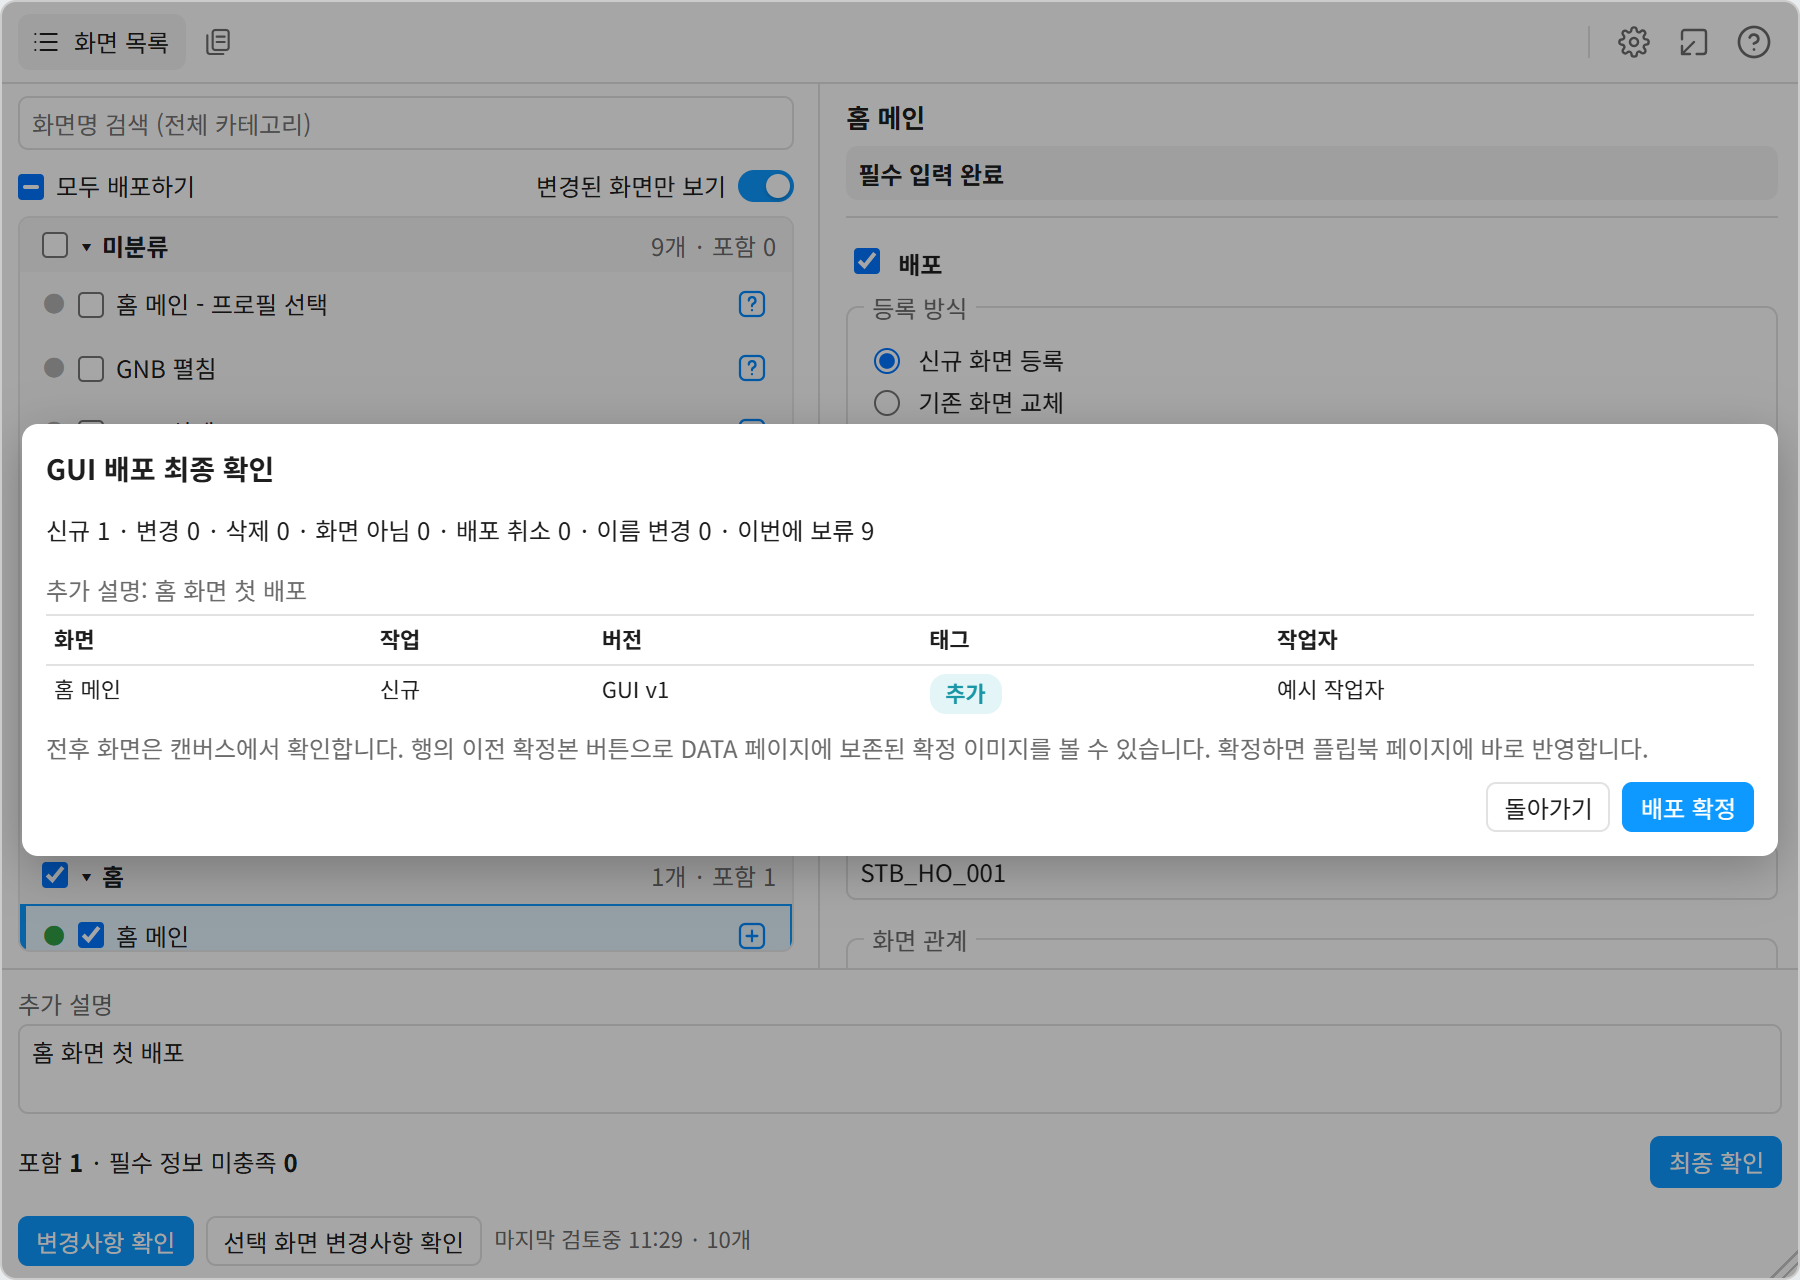
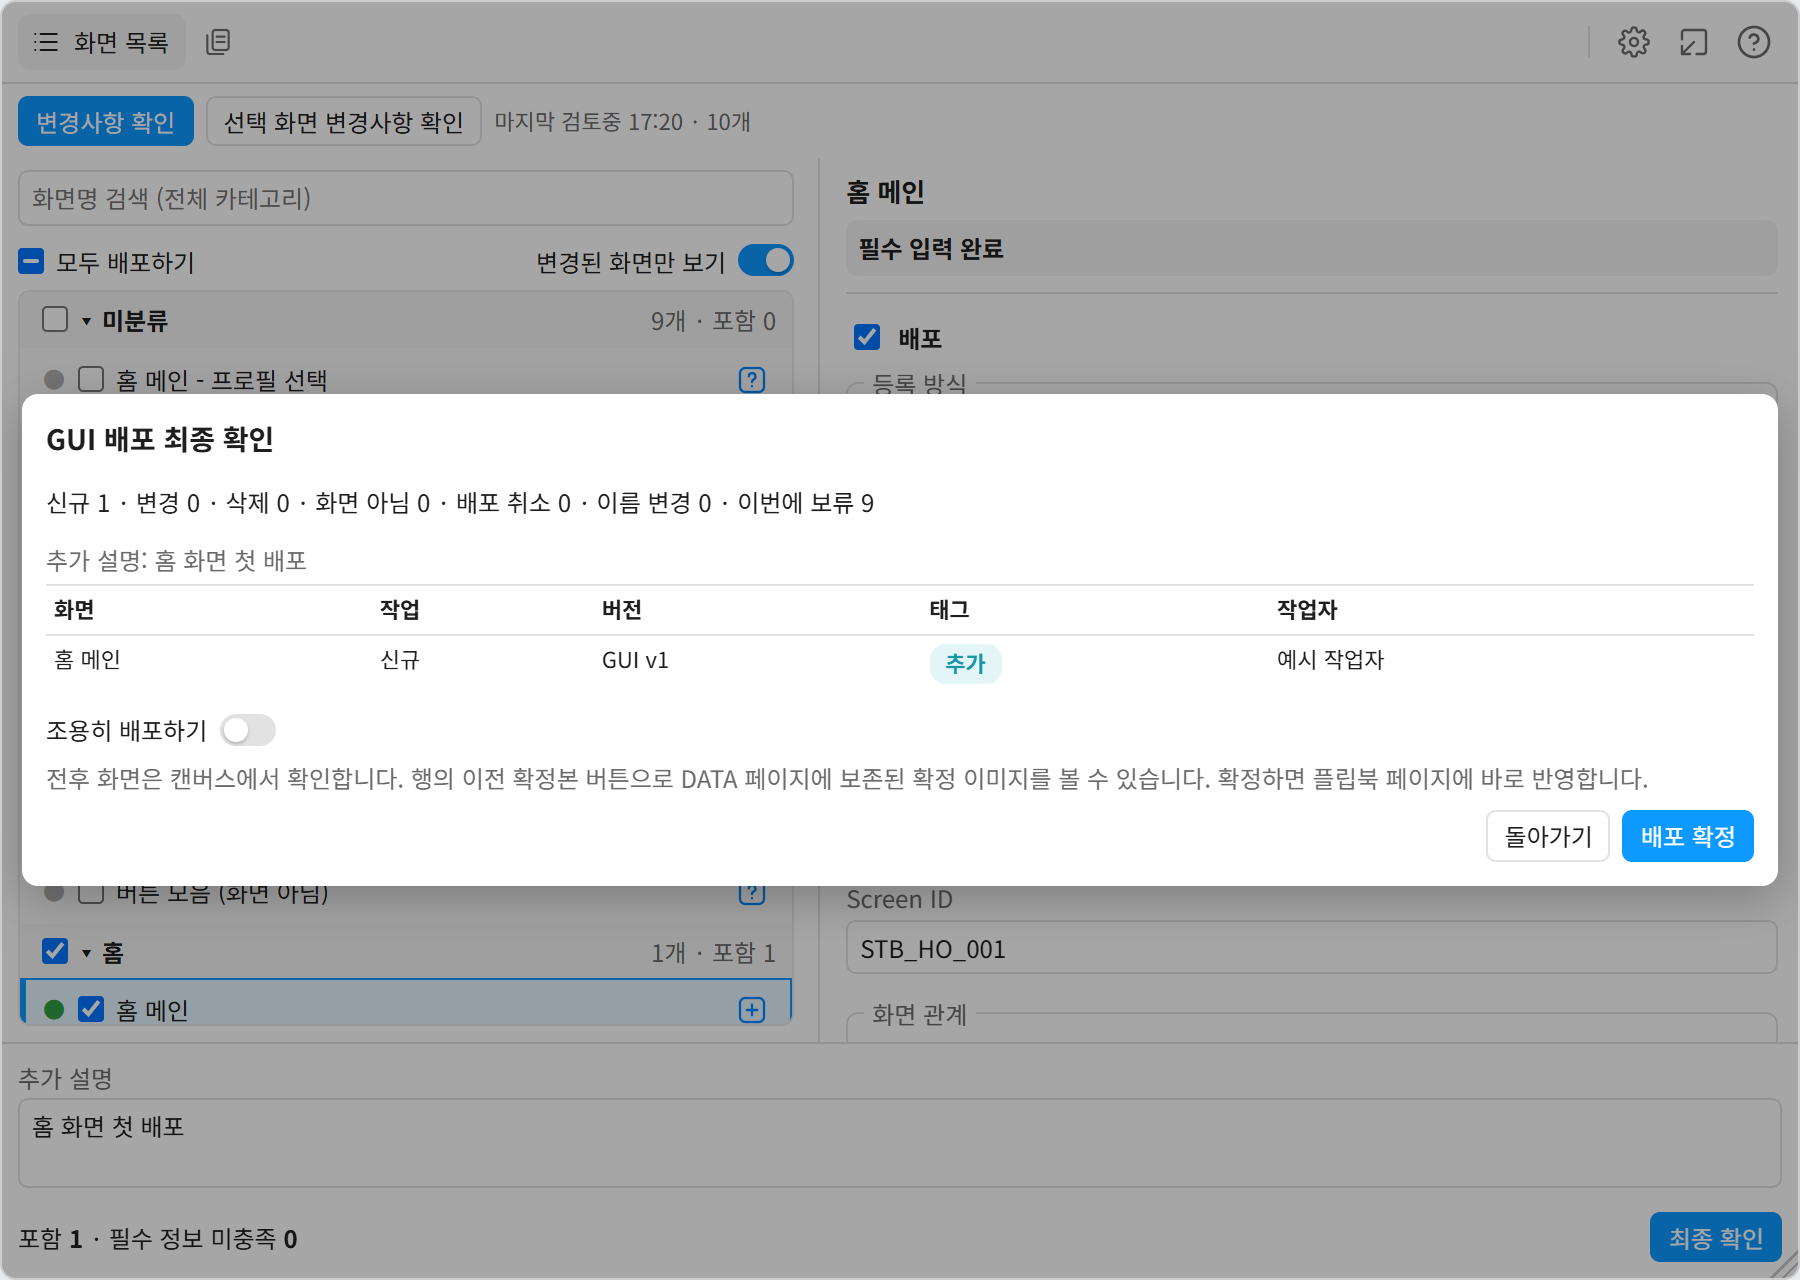
feat: add quiet GUI publishing without flipbook history

diff --git a/release/guide.html b/release/guide.html
@@ -239,7 +239,7 @@ footer { color: var(--muted); font-size: 13px; text-align: center; margin-top: 2
     <li><b>배포 켜기</b>이번에 배포할 화면의 <span class="ui">배포</span>를 켜고 등록 방식을 고릅니다. 새 화면으로 등록, <span class="ui">기존 화면 교체</span>(기존 화면의 새 버전으로 기록), <span class="ui">화면이 아님</span>(배포 뒤 목록에서 제외) 중 하나입니다. 이미 배포한 화면은 <span class="ui">화면 수정</span>·<span class="ui">기존 화면 교체</span>(잘못 신규로 배포한 화면을 기존 화면의 새 버전으로 돌림. 이 화면이 든 플립북·플로우·케이스는 기존 화면으로 옮겨 갑니다)·<span class="ui">화면이 아님</span>·<span class="ui">배포 취소</span>(사용 안 함으로 바꾸고 프레임은 다시 신규로 나옴) 중에서 고릅니다.</li>
     <li><b>화면 정보 입력</b>카테고리, 화면 이름, Screen ID, <span class="ui">독립 화면</span>·<span class="ui">케이스</span> 관계를 정합니다. 카테고리를 고르면 Screen ID가 캔버스 순서대로 자동 입력되고 직접 고칠 수도 있습니다. 케이스는 기본 화면을 고르면 다음 번호가 들어갑니다. 기본 화면 목록에는 아직 배포하지 않았어도 이번에 배포를 켠 독립 화면이 함께 나옵니다. 기본 화면과 케이스를 한 번에 배포할 수 있으며, 기본 화면에 충돌이 생기면 케이스도 함께 보류됩니다. 교체할 화면이나 기본 화면을 고르는 목록은 펼치면 Screen ID나 이름으로 검색할 수 있습니다. 검색 칸에서 <kbd>Enter</kbd>는 첫 결과를 고르고, <kbd>↑</kbd><kbd>↓</kbd>로 결과 사이를 옮기며, <kbd>Esc</kbd>로 접습니다. 신규 화면은 프레임 이름의 대괄호 안에 Screen ID가 있으면(예: <code>[STB_HO_001] 홈</code>) 그 ID를 씁니다.</li>
     <li><b>태그·작업자, 추가 설명</b>배포 이력에 남을 태그와 작업자를 고릅니다. 아래쪽 <span class="ui">추가 설명</span>은 배포 한 번에 하나이며 선택 입력입니다.</li>
-    <li><b>최종 확인 → 확정</b><span class="ui">최종 확인</span>에서 포함한 화면과 필수 정보 미충족 개수를 봅니다. 빨간 테두리로 표시된 입력을 채운 뒤, 배포 확인 요약을 보고 확정합니다.</li>
+    <li><b>최종 확인 → 확정</b><span class="ui">최종 확인</span>에서 포함한 화면과 필수 정보 미충족 개수를 봅니다. 빨간 테두리로 표시된 입력을 채운 뒤, 배포 확인 요약을 봅니다. 플립북 히스토리에 이번 배포 내역을 남기지 않으려면 <span class="ui">조용히 배포하기</span>를 켜고 확정합니다.</li>
   </ol>
   <figure>
     <img src="screens/gui-form.png" alt="화면 목록에서 화면을 골라 배포를 켜고 등록 방식, 화면 이름, Screen ID, 카테고리를 입력한 모습">
@@ -247,13 +247,13 @@ footer { color: var(--muted); font-size: 13px; text-align: center; margin-top: 2
   </figure>
   <figure>
     <img src="screens/gui-confirm.png" alt="GUI 배포 최종 확인 창: 신규·변경·삭제 개수와 화면별 작업, 버전, 태그, 작업자">
-    <figcaption>최종 확인 창. 내용을 확인하고 「배포 확정」을 누릅니다.</figcaption>
+    <figcaption>최종 확인 창. 필요하면 「조용히 배포하기」를 켠 뒤 「배포 확정」을 누릅니다.</figcaption>
   </figure>
   <div class="note">
     <b>확정하면 일어나는 일</b>
     <ul>
       <li>화면마다 1/4 크기 썸네일이 <span class="ui">[자동 관리] GUI 썸네일</span> 페이지에 남습니다.</li>
-      <li>그 화면을 쓰는 플립북의 GUI 영역에 원본 복사본이 바로 들어가고, 플립북에 빨간 점이 붙습니다.</li>
+      <li>그 화면을 쓰는 플립북의 GUI 영역에 원본 복사본이 바로 들어갑니다. 일반 배포는 플립북 히스토리와 빨간 점을 남기며, <span class="ui">조용히 배포하기</span>를 켜면 둘 다 추가하지 않습니다.</li>
       <li>배포 기록이 쌓이며, 배포된 화면을 고르면 <span class="ui">배포 이력</span>과 이전 배포 썸네일을 볼 수 있습니다.</li>
     </ul>
   </div>

diff --git a/src/ui/app.ts b/src/ui/app.ts
@@ -196,6 +196,7 @@ export function startApp(bridge: Bridge, root: HTMLElement): () => void {
   const changedOnly: Record<Team, boolean> = { GUI: true, UI: false };
   const recentWorker: Record<Team, string | undefined> = { GUI: undefined, UI: undefined };
   let plan: Plan | null = null;
+  let quietPublish = false;
   let toast: { kind: 'info' | 'error'; text: string } | null = null;
   let navSeq = 0;
   let history: { id: string; rows: HistoryRow[] } | null = null;
@@ -1529,6 +1530,7 @@ export function startApp(bridge: Bridge, root: HTMLElement): () => void {
       ${plan.exclusions.map(e => `<tr><td>${esc(e.name)}</td><td>${COPY.uiApp050}</td><td>—</td><td>—</td><td>${esc(e.reason)}</td></tr>`).join('')}
       ${plan.unpublished.map(e => `<tr><td>${esc(e.name)}</td><td>${COPY.uiApp355}</td><td>—</td><td>—</td><td>—</td></tr>`).join('')}
       </tbody></table>
+      ${plan.team === 'GUI' ? `<label class="switch quiet-publish" title="${COPY.quietPublishHint}"><span>${COPY.quietPublish}</span><input type="checkbox" role="switch" data-action="quiet-publish" aria-label="${COPY.quietPublish}" aria-description="${COPY.quietPublishHint}" ${quietPublish ? 'checked' : ''}></label>` : ''}
       <p class="note">${COPY.uiApp094}</p>
       <div class="dialog-actions">
         <button data-action="cancel-plan">${COPY.uiApp095}</button>
@@ -2696,8 +2698,9 @@ export function startApp(bridge: Bridge, root: HTMLElement): () => void {
         bridge.send({ type: 'prepare', team: t, drafts: sendable, ...(t === 'GUI' ? { comment } : {}) });
         break;
       }
-      case 'cancel-plan': if (plan) bridge.send({ type: 'cancelPlan', batchId: plan.batchId }); plan = null; renderConfirm(); break;
-      case 'commit': if (plan) { bridge.send({ type: 'commit', batchId: plan.batchId }); el.setAttribute('disabled', ''); } break;
+      case 'cancel-plan': if (plan) bridge.send({ type: 'cancelPlan', batchId: plan.batchId }); plan = null; quietPublish = false; renderConfirm(); break;
+      case 'quiet-publish': quietPublish = (el as HTMLInputElement).checked; break;
+      case 'commit': if (plan) { bridge.send({ type: 'commit', batchId: plan.batchId, quiet: plan.team === 'GUI' && quietPublish }); el.setAttribute('disabled', ''); } break;
       case 'goto': plan = null; renderConfirm(); if (el.dataset.key) { for (const g of listModel(t).groups) expanded[t].add(g.key); select(el.dataset.key); renderList(); } break;
       case 'retry': bridge.send({ type: 'retry' }); break;
       case 'managed-page-open': if (el.dataset.id) bridge.send({ type: 'revealNode', nav: ++navSeq, nodeId: el.dataset.id }); break;
@@ -3607,7 +3610,7 @@ export function startApp(bridge: Bridge, root: HTMLElement): () => void {
         renderTabs(); renderToolbar(); renderList(); renderDetail(); renderFooter();
         break;
       }
-      case 'plan': plan = msg.plan; renderConfirm(); break;
+      case 'plan': plan = msg.plan; quietPublish = false; renderConfirm(); break;
       case 'committed':
         if (msg.ok && mode === 'GUI') { comment = emptyComment(); renderFooter(); }
         if (msg.ok) {

diff --git a/src/core/publish.ts b/src/core/publish.ts
@@ -51,6 +51,7 @@ export interface Blocker { entryKey: string; name: string; messages: string[] }
 export interface Plan {
   batchId: string;
   team: Team;
+  quiet?: boolean;
   actor: Actor;
   items: PlanItem[];
   // replacedBy: 다른 프레임으로 교체되는 이전 화면의 ID. 그 화면의 원본 프레임을 제외 목록에 넣는다.
@@ -422,6 +423,7 @@ export function commitPlan(store: Store, plan: Plan, input: CommitInput): Commit
   const batch: Batch = {
     id: plan.batchId, team: plan.team, actor: plan.actor, committedAt: now,
     items: committed.map(i => ({ screenId: i.screenId, version: i.toVersion })),
+    ...(plan.team === 'GUI' && plan.quiet ? { quiet: true } : {}),
     ...(unpublished.length ? { unpublished: unpublished.map(i => ({ screenId: i.screenId, nodeId: i.nodeId })) } : {}),
   };
   store.put(keys.batch(batch.id), batch);
@@ -449,6 +451,7 @@ function writeGui(store: Store, plan: Plan, item: PlanItem, input: CommitInput, 
 
   const record: GuiRecord = {
     screenId: item.screenId, version: item.toVersion, batchId: plan.batchId, workType: item.workType!,
+    ...(plan.quiet ? { quiet: true } : {}),
     fingerprint: captured ? item.frame!.fingerprint : previous?.fingerprint ?? null,
     fpVersion: captured ? FINGERPRINT_VERSION : previous?.fpVersion ?? 1,
     thumb,

diff --git a/src/controller.ts b/src/controller.ts
@@ -186,7 +186,7 @@ export class Controller {
           this.host.post({ type: 'thumbnails', items });
           break;
         }
-        case 'commit': await this.commit(msg.batchId); break;
+        case 'commit': await this.commit(msg.batchId, msg.quiet); break;
         case 'cancelPlan': this.plans.delete(msg.batchId); break;
         case 'retry': {
           const recovered = await this.recovery.run(undefined, true);
@@ -1069,9 +1069,10 @@ export class Controller {
     this.host.post({ type: 'plan', plan });
   }
 
-  private async commit(batchId: string): Promise<void> {
+  private async commit(batchId: string, quiet = false): Promise<void> {
     const plan = this.plans.get(batchId);
     if (!plan) throw new Error(COPY.controller018);
+    if (plan.team === 'GUI') plan.quiet = quiet;
     const input: CommitInput = { fingerprints: {}, thumbs: {} };
     // 신규·변경 GUI는 확정 직전 썸네일을 만든다. 썸네일을 만들지 못해도 확정하고 알린다.
     const thumbErrors: string[] = [];

diff --git a/src/core/flipbooks.ts b/src/core/flipbooks.ts
@@ -285,7 +285,8 @@ export function importGuiUpdates(store: Store, flipbookId: string, screens: Map<
     // 삭제로 배포한 화면은 마지막 GUI를 그대로 두고 알리지 않는다. 화면이 모두 삭제된 플립북은 retireFlipbooks가 사용 안 함으로 바꾼다.
     if (!s || s.status !== 'active') { if (s?.status !== 'deleted') result.missing.push(fs.code); return fs; }
     const mine = new Map<number, ImportedGuiRecord>(held.filter(r => r.uid === fs.uid).map(r => [r.version, r]));
-    const { add, update } = recordsToImport(mine, fs.version, records.filter(r => r.uid === fs.uid));
+    // 조용한 배포는 화면 버전과 GUI 복사본만 따라간다. 재시도·나중 동기화에서도 이력과 확인 알림을 만들지 않는다.
+    const { add, update } = recordsToImport(mine, fs.version, records.filter(r => r.uid === fs.uid && !r.quiet));
     const version = Math.max(fs.version, s.version);
     for (const r of [...add.filter(r => r.version <= version), ...update]) {
       queue();

diff --git a/src/core/types.ts b/src/core/types.ts
@@ -99,6 +99,7 @@ export interface GuiRecord {
   screenId: string;
   version: number;
   batchId: string;
+  quiet?: boolean;
   workType: WorkType;
   fingerprint: string | null;
   // 지문을 계산한 정규화 버전. 이 필드가 생기기 전의 기록은 1로 본다.
@@ -147,6 +148,8 @@ export interface UiBaseline { flipbookId: string; fingerprint: string; fpVersion
 export interface Batch {
   id: string; team: Team; actor: Actor; committedAt: number;
   items: { screenId: string; version: number }[];
+  // GUI 배포를 플립북 이력에 가져오지 않는다. 이전 기록은 필드가 없어 false로 읽는다.
+  quiet?: boolean;
   // 배포 취소 후 플러그인이 중단되어도 원본 프레임의 표식 제거를 재시도할 수 있게 남긴다.
   unpublished?: { screenId: string; nodeId: string }[];
 }

diff --git a/src/core/guiScreens.ts b/src/core/guiScreens.ts
@@ -18,6 +18,7 @@ export interface GuiScreenInfo {
 
 export interface GuiRecordInfo {
   batchId: string;
+  quiet?: boolean;
   uid: string;
   version: number;
   code: string;
@@ -69,7 +70,7 @@ export function guiScreens(state: State): Map<string, GuiScreenInfo> {
 export function guiRecordInfo(r: GuiRecord): GuiRecordInfo {
   const last = r.corrections[r.corrections.length - 1];
   return {
-    batchId: r.batchId, uid: r.screenId, version: r.version, code: r.code, name: r.name, workType: r.workType, tag: r.tag,
+    batchId: r.batchId, quiet: r.quiet, uid: r.screenId, version: r.version, code: r.code, name: r.name, workType: r.workType, tag: r.tag,
     description: last ? last.description : r.description, original: r.description, corrected: !!last,
     worker: r.worker.name, committedAt: r.committedAt,
   };

diff --git a/src/ui/styles.css b/src/ui/styles.css
@@ -191,6 +191,7 @@ summary { cursor: pointer; color: var(--muted); }
 .dialog h2 { font-size: 14px; margin: 0 0 6px; }
 .dialog .items { width: 100%; border-collapse: collapse; font-size: 11px; }
 .dialog .items th, .dialog .items td { border-top: 1px solid var(--border); padding: 4px; text-align: left; vertical-align: top; }
+.dialog .quiet-publish { justify-content: flex-start; width: fit-content; margin: 10px 0 6px; }
 .dialog small { display: block; color: var(--muted); }
 .blockers { border: 1px solid var(--danger); border-radius: 6px; padding: 6px; margin: 6px 0; }
 .dialog-actions { display: flex; justify-content: flex-end; gap: 6px; margin-top: 8px; }

diff --git a/src/core/copy.ts b/src/core/copy.ts
@@ -177,6 +177,8 @@ export const COPY = {
   uiApp094: "전후 화면은 캔버스에서 확인합니다. 행의 이전 확정본 버튼으로 DATA 페이지에 보존된 확정 이미지를 볼 수 있습니다. 확정하면 플립북 페이지에 바로 반영합니다.", // 407
   uiApp095: "돌아가기", // 409
   uiApp096: "배포 확정", // 410
+  quietPublish: '조용히 배포하기',
+  quietPublishHint: '플립북의 히스토리에 배포 내역이 남지 않습니다.',
   // 관리 — src/ui/app.ts
   uiApp097: "GUI 원본 범위", // 423
   uiApp098: "추가할 GUI 원본 페이지", // 424

diff --git a/src/core/wire.ts b/src/core/wire.ts
@@ -142,7 +142,7 @@ export type ToMain =
   | { type: 'prepare'; team: Team; drafts: Record<string, Draft>; comment?: BatchComment }
   // 썸네일 이미지 바이트 요청(플립북 목록·화면 선택 미리보기)
   | { type: 'thumbnails'; hashes: string[] }
-  | { type: 'commit'; batchId: string }
+  | { type: 'commit'; batchId: string; quiet?: boolean }
   | { type: 'cancelPlan'; batchId: string }
   | { type: 'retry'; batchId?: string }
   | { type: 'refreshData' }

diff --git a/README.md b/README.md
@@ -3,6 +3,7 @@
 GUI팀과 UI팀이 한 Figma 파일에서 함께 쓰는 플러그인입니다. GUI팀이 원본 화면을 고쳐 배포하면 그 화면을 쓰는 UI팀의 플립북(화면설계서 페이지)에 최신 GUI가 바로 들어가고, 어떤 화면이 언제 바뀌었는지 기록으로 남습니다. 외부 서버 없이 모든 기록을 Figma 파일 안에 저장합니다.
 
 - **GUI Publish** (GUI 담당): 원본 화면을 지난 배포와 비교해 바뀐 화면을 찾고, 화면 이름·Screen ID·카테고리를 정해 배포합니다.
+  - 최종 확인 창에서 **조용히 배포하기**를 켜면 플립북 히스토리에 이번 배포 내역을 남기지 않습니다.
 - **UI Flipbook** (UI 담당): 화면을 골라 플립북을 만들고, GUI가 다시 배포된 플립북을 확인해 상태·코멘트를 남깁니다. 직접 만든 플립북은 관리에서 해당 페이지를 플립북 페이지로 지정한 뒤, 캔버스에서 바깥쪽 프레임을 선택하고 목록 위 **기존 플립북 등록**으로 추가합니다.
 
 ## 최신 버전 받기
